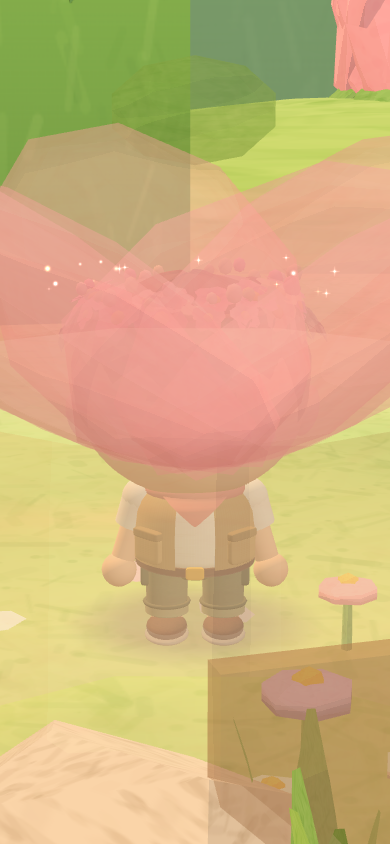
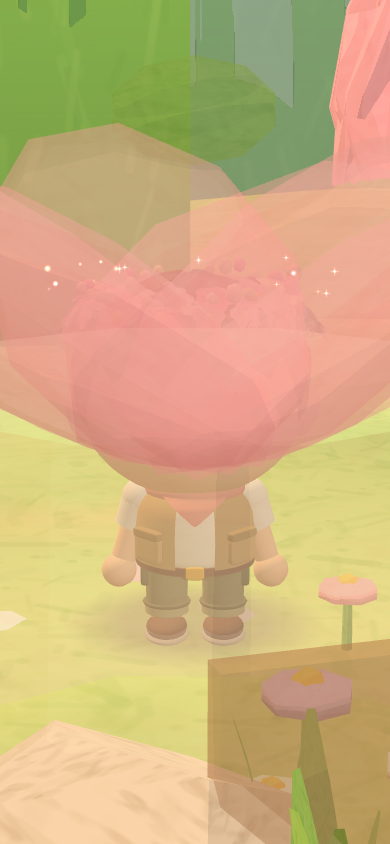
둥근 땅(그릴 때만 멀수록 아래로 휘기), 톱니 메뉴 세기, 자동 시험 한 번에 돌리는 도구
- game/bend.js: three 셰이더 조각(project_vertex·worldpos_vertex·스프라이트)을 한 번 고쳐 모든 재질·합친 덩어리·인스턴싱·뼈대·그림자 깊이가 같은 만큼 휨, uniform wlBend 하나(Material.onBeforeCompile에 끼워 넣음, 프로그램 열쇠는 원래 함수 글로). 세기 0이면 예전 계산 그대로(기준 촬영 바이트 동일)
- 요정의 숲 bend {k:.006, d0:8}, 톱니 메뉴 둥근 땅 끔·약·중·강(기억), 구역에 값이 없으면 끔
- 별가루 셰이더도 휨, 하늘·별은 noBend, 소개 카드 초상은 끄고 찍기, 선착장 물 평면을 48×13칸으로(네 귀퉁이뿐이라 가라앉던 것)
- tools/run-checks.py(기준·동작·규칙·휴대폰·가림·끼임·카메라 걷기), shot-server --lan(아이폰용)
- CLAUDE.md 둥근 땅 규칙

diff --git a/index.html b/index.html
@@ -102,68 +102,70 @@ body.debug #dbgBtn{opacity:1;background:var(--chipline)}
   <button id="actBtn" type="button">동작: 서기</button>
   <button id="emphBtn" type="button">캐릭터 강조: 자동</button>
   <button id="outfitBtn" type="button">옷: 평상복</button>
+  <button id="bendBtn" type="button">둥근 땅: 중</button>
   <button id="resetBtn" type="button">진행 초기화</button>
   <div class="hint" id="stats" aria-live="polite"></div>
   <div class="hint">끌어서 돌려 보고, 휠이나 두 손가락으로 확대해요. 바닥을 누르면 원더룹이 걸어가고, 원더룹을 누르면 인사해요. 버섯 랜턴은 눌러서 켜고 꺼요.</div>
 </div>
 
 <script id="wl-vercheck">fetch('version.json?t='+Date.now(),{cache:'no-store'}).then(r=>r.json()).then(j=>{if(j.v&&j.v!==window.WL_V){const u=new URL(location.href);if(u.searchParams.get('_v')!==j.v){u.searchParams.set('_v',j.v);location.replace(u);}}}).catch(()=>{});</script>
-<script>window.WL_V='f9cd527d55';</script>
+<script>window.WL_V='cec8ff5d3c';</script>
 <script type="importmap">
 {
   "imports": {
     "three": "https://cdn.jsdelivr.net/npm/three@0.186.1/build/three.module.js",
     "three/addons/": "https://cdn.jsdelivr.net/npm/three@0.186.1/examples/jsm/",
-    "./js/01-textures.js": "./js/01-textures.js?v=f9cd527d55",
-    "./js/02-zone.js": "./js/02-zone.js?v=f9cd527d55",
-    "./js/03-scene.js": "./js/03-scene.js?v=f9cd527d55",
-    "./js/04-character.js": "./js/04-character.js?v=f9cd527d55",
-    "./js/05-hair-headwear.js": "./js/05-hair-headwear.js?v=f9cd527d55",
-    "./js/06-outfits.js": "./js/06-outfits.js?v=f9cd527d55",
-    "./js/07-actions.js": "./js/07-actions.js?v=f9cd527d55",
-    "./js/08-main.js": "./js/08-main.js?v=f9cd527d55",
-    "./js/09-capture.js": "./js/09-capture.js?v=f9cd527d55",
-    "./js/game/codex.js": "./js/game/codex.js?v=f9cd527d55",
-    "./js/game/companion.js": "./js/game/companion.js?v=f9cd527d55",
-    "./js/game/controls.js": "./js/game/controls.js?v=f9cd527d55",
-    "./js/game/core.js": "./js/game/core.js?v=f9cd527d55",
-    "./js/game/course.js": "./js/game/course.js?v=f9cd527d55",
-    "./js/game/dialog.js": "./js/game/dialog.js?v=f9cd527d55",
-    "./js/game/events.js": "./js/game/events.js?v=f9cd527d55",
-    "./js/game/fx.js": "./js/game/fx.js?v=f9cd527d55",
-    "./js/game/hud.js": "./js/game/hud.js?v=f9cd527d55",
-    "./js/game/index.js": "./js/game/index.js?v=f9cd527d55",
-    "./js/game/interact.js": "./js/game/interact.js?v=f9cd527d55",
-    "./js/game/items.js": "./js/game/items.js?v=f9cd527d55",
-    "./js/game/lamps.js": "./js/game/lamps.js?v=f9cd527d55",
-    "./js/game/music.js": "./js/game/music.js?v=f9cd527d55",
-    "./js/game/occlude.js": "./js/game/occlude.js?v=f9cd527d55",
-    "./js/game/profile.js": "./js/game/profile.js?v=f9cd527d55",
-    "./js/game/ride.js": "./js/game/ride.js?v=f9cd527d55",
-    "./js/game/sfx-ant.js": "./js/game/sfx-ant.js?v=f9cd527d55",
-    "./js/game/sky.js": "./js/game/sky.js?v=f9cd527d55",
-    "./js/game/sound.js": "./js/game/sound.js?v=f9cd527d55",
-    "./js/game/state.js": "./js/game/state.js?v=f9cd527d55",
-    "./js/game/synth.js": "./js/game/synth.js?v=f9cd527d55",
-    "./js/game/title.js": "./js/game/title.js?v=f9cd527d55",
-    "./js/game/ui.js": "./js/game/ui.js?v=f9cd527d55",
-    "./js/hoods/bud.js": "./js/hoods/bud.js?v=f9cd527d55",
-    "./js/hoods/crown.js": "./js/hoods/crown.js?v=f9cd527d55",
-    "./js/zones/basecamp.js": "./js/zones/basecamp.js?v=f9cd527d55",
-    "./js/zones/fairy/dock.js": "./js/zones/fairy/dock.js?v=f9cd527d55",
-    "./js/zones/fairy/fairies.js": "./js/zones/fairy/fairies.js?v=f9cd527d55",
-    "./js/zones/fairy/forest.js": "./js/zones/fairy/forest.js?v=f9cd527d55",
-    "./js/zones/fairy/music.js": "./js/zones/fairy/music.js?v=f9cd527d55",
-    "./js/zones/fairy/paint.js": "./js/zones/fairy/paint.js?v=f9cd527d55",
-    "./js/zones/fairy/world.js": "./js/zones/fairy/world.js?v=f9cd527d55",
-    "./js/zones/sample-fx.js": "./js/zones/sample-fx.js?v=f9cd527d55",
-    "./js/zones/sample-indoor.js": "./js/zones/sample-indoor.js?v=f9cd527d55",
-    "./js/zones/sample-outdoor.js": "./js/zones/sample-outdoor.js?v=f9cd527d55"
+    "./js/01-textures.js": "./js/01-textures.js?v=cec8ff5d3c",
+    "./js/02-zone.js": "./js/02-zone.js?v=cec8ff5d3c",
+    "./js/03-scene.js": "./js/03-scene.js?v=cec8ff5d3c",
+    "./js/04-character.js": "./js/04-character.js?v=cec8ff5d3c",
+    "./js/05-hair-headwear.js": "./js/05-hair-headwear.js?v=cec8ff5d3c",
+    "./js/06-outfits.js": "./js/06-outfits.js?v=cec8ff5d3c",
+    "./js/07-actions.js": "./js/07-actions.js?v=cec8ff5d3c",
+    "./js/08-main.js": "./js/08-main.js?v=cec8ff5d3c",
+    "./js/09-capture.js": "./js/09-capture.js?v=cec8ff5d3c",
+    "./js/game/bend.js": "./js/game/bend.js?v=cec8ff5d3c",
+    "./js/game/codex.js": "./js/game/codex.js?v=cec8ff5d3c",
+    "./js/game/companion.js": "./js/game/companion.js?v=cec8ff5d3c",
+    "./js/game/controls.js": "./js/game/controls.js?v=cec8ff5d3c",
+    "./js/game/core.js": "./js/game/core.js?v=cec8ff5d3c",
+    "./js/game/course.js": "./js/game/course.js?v=cec8ff5d3c",
+    "./js/game/dialog.js": "./js/game/dialog.js?v=cec8ff5d3c",
+    "./js/game/events.js": "./js/game/events.js?v=cec8ff5d3c",
+    "./js/game/fx.js": "./js/game/fx.js?v=cec8ff5d3c",
+    "./js/game/hud.js": "./js/game/hud.js?v=cec8ff5d3c",
+    "./js/game/index.js": "./js/game/index.js?v=cec8ff5d3c",
+    "./js/game/interact.js": "./js/game/interact.js?v=cec8ff5d3c",
+    "./js/game/items.js": "./js/game/items.js?v=cec8ff5d3c",
+    "./js/game/lamps.js": "./js/game/lamps.js?v=cec8ff5d3c",
+    "./js/game/music.js": "./js/game/music.js?v=cec8ff5d3c",
+    "./js/game/occlude.js": "./js/game/occlude.js?v=cec8ff5d3c",
+    "./js/game/profile.js": "./js/game/profile.js?v=cec8ff5d3c",
+    "./js/game/ride.js": "./js/game/ride.js?v=cec8ff5d3c",
+    "./js/game/sfx-ant.js": "./js/game/sfx-ant.js?v=cec8ff5d3c",
+    "./js/game/sky.js": "./js/game/sky.js?v=cec8ff5d3c",
+    "./js/game/sound.js": "./js/game/sound.js?v=cec8ff5d3c",
+    "./js/game/state.js": "./js/game/state.js?v=cec8ff5d3c",
+    "./js/game/synth.js": "./js/game/synth.js?v=cec8ff5d3c",
+    "./js/game/title.js": "./js/game/title.js?v=cec8ff5d3c",
+    "./js/game/ui.js": "./js/game/ui.js?v=cec8ff5d3c",
+    "./js/hoods/bud.js": "./js/hoods/bud.js?v=cec8ff5d3c",
+    "./js/hoods/crown.js": "./js/hoods/crown.js?v=cec8ff5d3c",
+    "./js/zones/basecamp.js": "./js/zones/basecamp.js?v=cec8ff5d3c",
+    "./js/zones/fairy/dock.js": "./js/zones/fairy/dock.js?v=cec8ff5d3c",
+    "./js/zones/fairy/fairies.js": "./js/zones/fairy/fairies.js?v=cec8ff5d3c",
+    "./js/zones/fairy/forest.js": "./js/zones/fairy/forest.js?v=cec8ff5d3c",
+    "./js/zones/fairy/music.js": "./js/zones/fairy/music.js?v=cec8ff5d3c",
+    "./js/zones/fairy/paint.js": "./js/zones/fairy/paint.js?v=cec8ff5d3c",
+    "./js/zones/fairy/world.js": "./js/zones/fairy/world.js?v=cec8ff5d3c",
+    "./js/zones/sample-fx.js": "./js/zones/sample-fx.js?v=cec8ff5d3c",
+    "./js/zones/sample-indoor.js": "./js/zones/sample-indoor.js?v=cec8ff5d3c",
+    "./js/zones/sample-outdoor.js": "./js/zones/sample-outdoor.js?v=cec8ff5d3c"
   }
 }
 </script>
 <!-- 08-main.js가 01~07을 번호 순서대로 import한다. 버전(?v=)과 위 importmap의 js 줄은 tools/stamp.py가 쓴다 -->
-<script type="module" src="js/08-main.js?v=f9cd527d55"></script>
+<script type="module" src="js/08-main.js?v=cec8ff5d3c"></script>
 
 </body>
 </html>

diff --git a/js/game/bend.js b/js/game/bend.js
@@ -1,0 +1,52 @@
+/* 원더룹 — 둥근 땅 (동물의 숲처럼, 2026-11-03)
+   그릴 때만 카메라에서 수평으로 멀수록 아래로 내린다: 아래로 = k × max(0, 거리 − d0)²  (거리는 카메라 기준 x·z).
+   평평한 땅이 둥근 섬처럼 넘어가 보이고, 먼 곳은 지평선 아래로 숨는다. 실제 위치·충돌·이동·판정·카메라 당김은 평평한 그대로(그림만 바뀜).
+   어떻게: three 셰이더 조각을 한 번 고친다 — project_vertex(화면 위치)·worldpos_vertex(그림자 좌표·빛)·스프라이트 꼭짓점.
+     → 기본 재질(Standard·Toon·Basic·Lambert·Points·Sprite), 합친 덩어리, 인스턴싱, 뼈대(Skinned), 그림자 깊이 그리기까지 모두 같은 만큼 휜다.
+     uniform wlBend(vec4: x = k, y·z = 카메라 x·z, w = d0) 하나를 모든 재질이 같이 쓴다(Material.onBeforeCompile에 끼워 넣음 — 구역 코드가 재질에 붙이는 onBeforeCompile은 그대로 불린다).
+     k가 0이면 셰이더가 예전 계산을 그대로 탄다(베이스캠프·실내·기준 촬영 화면 그대로).
+   직접 쓴 셰이더(ShaderMaterial)는 #include <common> 뒤 정점 위치에 wlBent(modelMatrix*…)를 써야 한다(crown.js 별가루 견본). 휘면 안 되는 것(하늘 지붕·별)은 material.userData.noBend=true.
+   매 프레임 자바스크립트 일은 08이 setBend(카메라 x·z)로 uniform 값 셋만 바꾸는 것뿐. 세기는 구역 정보 bend:{k,d0}(없으면 끔) × 톱니 메뉴 단계(끔·약·중·강). */
+import * as THREE from 'three';
+const BEND = { value: new THREE.Vector4(0, 0, 0, 8) }, NONE = { value: new THREE.Vector4(0, 0, 0, 8) };
+const C = THREE.ShaderChunk;
+if (!C.common.includes('wlBend')) {
+  C.common += `
+uniform vec4 wlBend; // 둥근 땅(game/bend.js): x 세기 k, yz 카메라 x·z, w 평평하게 둘 거리 d0
+vec4 wlBent( vec4 w ) { vec2 d = w.xz - wlBend.yz; float r = max( 0.0, length( d ) - wlBend.w ); w.y -= wlBend.x * r * r; return w; }`;
+  const pv = 'mvPosition = modelViewMatrix * mvPosition;';
+  if (!C.project_vertex.includes(pv)) console.warn('원더룹: 둥근 땅 패치 실패(project_vertex)');
+  C.project_vertex = C.project_vertex.replace(pv, 'if ( wlBend.x > 0.0 ) mvPosition = viewMatrix * wlBent( modelMatrix * mvPosition ); else mvPosition = modelViewMatrix * mvPosition;');
+  const wp = 'worldPosition = modelMatrix * worldPosition;';
+  if (!C.worldpos_vertex.includes(wp)) console.warn('원더룹: 둥근 땅 패치 실패(worldpos_vertex)');
+  C.worldpos_vertex = C.worldpos_vertex.replace(wp, wp + '\n\tif ( wlBend.x > 0.0 ) worldPosition = wlBent( worldPosition );');
+  const sp = 'vec4 mvPosition = modelViewMatrix[ 3 ];', S = THREE.ShaderLib.sprite;
+  if (!S.vertexShader.includes(sp)) console.warn('원더룹: 둥근 땅 패치 실패(sprite)');
+  S.vertexShader = S.vertexShader.replace(sp, 'vec4 mvPosition = wlBend.x > 0.0 ? viewMatrix * wlBent( modelMatrix[ 3 ] ) : modelViewMatrix[ 3 ];');
+}
+// 모든 재질에 uniform 끼워 넣기: onBeforeCompile을 바꿔 단 재질도 그 함수 뒤에 wlBend가 붙는다
+{ const P = THREE.Material.prototype, add = (m, sh) => { sh.uniforms.wlBend = m.userData && m.userData.noBend ? NONE : BEND; };
+  if (!Object.getOwnPropertyDescriptor(P, 'onBeforeCompile') || !P.__wlBend) {
+    P.__wlBend = true;
+    Object.defineProperty(P, 'onBeforeCompile', { configurable: true,
+      get() { const m = this; return this.__wlObc || (this.__wlObc = function (sh, r) { add(m, sh); }); }, // this 대신 m(앞 함수를 this 없이 부르는 곳이 있다 — 07)
+      set(f) { const m = this; this.__wlUser = typeof f === 'function' ? f : null; this.__wlObc = this.__wlUser ? function (sh, r) { f.call(this, sh, r); add(m, sh); } : null; } });
+    // three의 기본 프로그램 열쇠는 onBeforeCompile.toString()이다 — 감싼 함수는 모두 같은 글이라, 원래 함수의 글로(다른 셰이더 패치끼리 프로그램을 같이 쓰지 않게)
+    const key0 = P.customProgramCacheKey;
+    P.customProgramCacheKey = function () { return this.__wlUser ? this.__wlUser.toString() : key0.call({ onBeforeCompile: () => {} }); };
+  } }
+/* 단계: 0 끔 · 1 약 · 2 중 · 3 강 — 구역 정보 bend:{k,d0}의 k가 '중', 약은 ×0.5, 강은 ×2 */
+const LEVELS = ['끔', '약', '중', '강'], MUL = [0, .5, 1, 2];
+let zoneBend = null, level = 2, paused = 0;
+try { const v = localStorage.getItem('wl-bend'); if (v != null && v !== '') level = Math.max(0, Math.min(3, +v)); } catch (e) {}
+function setZoneBend(b) { zoneBend = b && b.k > 0 ? { k: b.k, d0: b.d0 ?? 8 } : null; }
+function setLevel(l) { level = l; try { localStorage.setItem('wl-bend', String(l)); } catch (e) {} }
+const bendK = () => (zoneBend && !paused ? zoneBend.k * MUL[level] : 0);
+/* 08이 그리기 직전에(카메라가 움직인 뒤) */
+function setBend(cam) { const v = BEND.value; v.x = bendK(); v.y = cam.position.x; v.z = cam.position.z; v.w = zoneBend ? zoneBend.d0 : 8; }
+/* 잠깐 끄기(소개 카드 초상 찍기 등): const resume = bendPaused(); … resume(); */
+function bendPaused() { paused++; const x = BEND.value.x; BEND.value.x = 0; return () => { paused--; BEND.value.x = paused ? 0 : x; }; }
+/* 그림 위치 계산(자바스크립트 쪽 — 화면 위 안내를 3D 자리에 맞출 때): 평평한 자리 p를 휜 자리로 */
+function bentY(x, z, y) { const v = BEND.value; if (!(v.x > 0)) return y; const r = Math.max(0, Math.hypot(x - v.y, z - v.z) - v.w); return y - v.x * r * r; }
+const bendInfo = () => ({ on: !!zoneBend, level, label: LEVELS[level], k: bendK(), d0: zoneBend ? zoneBend.d0 : null });
+export { BEND, LEVELS, bendInfo, bendK, bendPaused, bentY, setBend, setLevel, setZoneBend };

diff --git a/js/08-main.js b/js/08-main.js
@@ -8,6 +8,7 @@ import './05-hair-headwear.js';
 import './06-outfits.js';
 import {hopWL,setWalkTarget,stopWalk,updateWL,walking,wlHit} from './07-actions.js';
 import * as GAME from './game/index.js';
+import {bendInfo,setBend,setLevel,setZoneBend} from './game/bend.js';
 /* ---------- 상호작용 ---------- */
 let cave=0,caveTarget=0,lightState=0,emph='auto',night=0,nightTarget=0,spin=false,spinDir=1;
 const dayBtn=document.getElementById('dayBtn'),spinBtn=document.getElementById('spinBtn');
@@ -59,7 +60,8 @@ async function goZone(id,spawn){
   return true;}
 /* 세계의 옷·탈: 상상의 세계(구역 정보에 hood가 있는 곳)에 들어가면 탐험복 그대로 탈만 그 세계 것으로 바꿔 쓴다.
    outfit을 적으면 그 옷(예: 'casual'), 안 적으면 탐험복. hood가 없는 구역(베이스캠프 등)은 지금 차림 그대로 */
-function zoneLook(z){const U=WL.userData;{const h=document.querySelector('header');if(h)h.style.display=z.world?'none':'';} // 세계 구역에서는 베이스캠프 머리말(실험 안내 글자)을 숨긴다
+function zoneLook(z){const U=WL.userData;setZoneBend(z.bend);bendBtn(); // 둥근 땅 세기는 구역 정보 bend(없으면 끔 — 실내·베이스캠프)
+  {const h=document.querySelector('header');if(h)h.style.display=z.world?'none':'';} // 세계 구역에서는 베이스캠프 머리말(실험 안내 글자)을 숨긴다
   if(z.hood){U.setOutfit(z.outfit||'explorer');U.setHood(z.hood);}else if(z.outfit)U.setOutfit(z.outfit);}
 zoneLook(zone.cur); // 처음 구역 (?zone=…로 바로 들어와도)
 {const sp=zone.cur.spawn;WL.position.set(sp.x,groundY(sp.x,sp.z),sp.z);WL.rotation.y=sp.ry||0;} // 처음 구역의 들어오는 자리 (베이스캠프는 04의 처음 자리와 같다)
@@ -74,6 +76,9 @@ const reduce=window.matchMedia&&window.matchMedia('(prefers-reduced-motion: redu
  set(new URLSearchParams(location.search).has('debug'));
  b.addEventListener('click',()=>{const vv=window.visualViewport;if(performance.now()-(GAME.controls.input.multiT||0)<800||(vv&&vv.scale>1.01))return; // 두 손가락 동작 끝에 잘못 눌린 것은 무시(저절로 열리지 않게)
    set(!document.body.classList.contains('debug'));});}
+/* 둥근 땅(시험용, 톱니 메뉴): 끔 → 약 → 중 → 강 → 끔 (game/bend — 그림만 휜다, 이 기기에 기억). 구역 정보 bend가 없는 곳(실내·베이스캠프)은 늘 끔 */
+function bendBtn(){const b=document.getElementById('bendBtn');if(!b)return;const I=bendInfo();b.textContent=I.on?`둥근 땅: ${I.label}`:'둥근 땅: 이 구역 없음';b.disabled=!I.on;}
+{const b=document.getElementById('bendBtn');if(b)b.addEventListener('click',()=>{const I=bendInfo();if(!I.on)return;setLevel((I.level+1)%4);bendBtn();});}
 /* 진행 초기화(시험용, 톱니 메뉴): 저장된 진행(flags — 우산·완료·소개 카드)·도감을 지우고 다시 연다. 실수로 눌리지 않게 3초 안에 한 번 더 눌러야 */
 {const b=document.getElementById('resetBtn');let armT=0;if(b)b.addEventListener('click',()=>{const now=performance.now();
    if(now-armT<3000){GAME.state.resetProgress();location.reload();return;}armT=now;b.textContent='한 번 더 누르면 처음부터';setTimeout(()=>{if(performance.now()-armT>=2900)b.textContent='진행 초기화';},3000);});}
@@ -115,7 +120,8 @@ if(!SHOT){const setPaused=p=>{if(p===paused)return;paused=p;if(!p)schedule();};
   window.addEventListener('blur',()=>setPaused(true));['focus','pointerdown','keydown'].forEach(ev=>window.addEventListener(ev,()=>setPaused(document.hidden)));}
 /* 한 화면 그리기: 보통 그리기 + 흐려 보기 덧그리기(game/occlude — 세계 구역에서 원더룹을 가리는 조각만). 화면 통계는 둘을 합친 값 */
 renderer.info.autoReset=false;
-function renderFrame(){renderer.info.reset();renderer.render(scene,camera);GAME.occlude.overlayPass(renderer,scene,camera);}
+/* 둥근 땅(game/bend): 그리기 직전 카메라 자리를 넣는다(그림자 그리기도 같은 값) */
+function renderFrame(){setBend(camera);renderer.info.reset();renderer.render(scene,camera);GAME.occlude.overlayPass(renderer,scene,camera);}
 function tick(){let ok=false;try{tickBody();ok=true;}catch(e){const k=String(e&&e.stack||e);if(!tickErrSeen.has(k)){tickErrSeen.add(k);console.error('원더룹: 프레임 오류 (계속 진행)',e);}
   try{renderFrame();}catch(e2){}}if(!ok)nextFrame();}
 function tickBody(){

diff --git a/js/game/profile.js b/js/game/profile.js
@@ -11,6 +11,7 @@ import * as THREE from 'three';
 import {flags,setFlag} from './state.js';
 import {profileCard} from './ui.js';
 import {cutPaused} from './occlude.js';
+import {bendPaused} from './bend.js';
 let ctx=null,W='',CARDS={};
 function initProfile(c){ctx=c;}
 function setup({world,cards}){W=world||'';CARDS=cards||{};}
@@ -27,12 +28,13 @@ function portrait(root,{side=.42,lift=.12,w=512,h=512}={}){if(!ctx||!ctx.rendere
   stage.add(new THREE.HemisphereLight(0xfff6ea,0xd9c2aa,1.6));const key=new THREE.DirectionalLight(0xfff2e0,2.3);key.position.copy(cam.position).add(new THREE.Vector3(-dist*.4,dist*.5,0));key.target.position.copy(c);stage.add(key,key.target);
   const rt=new THREE.WebGLRenderTarget(w,h,{samples:4});rt.texture.colorSpace=THREE.SRGBColorSpace;
   const prev=renderer.getRenderTarget(),cc=renderer.getClearColor(new THREE.Color()),ca=renderer.getClearAlpha();let url=null;const resume=cutPaused(true);
+  const resumeBend=bendPaused(); // 초상은 둥근 땅을 끄고(평평하게) 찍는다
   try{renderer.setRenderTarget(rt);renderer.setClearColor(0x000000,0);renderer.clear();renderer.render(stage,cam);const px=new Uint8Array(w*h*4);renderer.readRenderTargetPixels(rt,0,0,w,h,px);
     const cv=document.createElement('canvas');cv.width=w;cv.height=h;const g=cv.getContext('2d'),im=g.createImageData(w,h);
     for(let r=0;r<h;r++)im.data.set(px.subarray((h-1-r)*w*4,(h-r)*w*4),r*w*4); // 렌더 타깃은 아래부터 → 뒤집기
     g.putImageData(im,0,0);url=cv.toDataURL('image/png');}
   catch(e){console.warn('원더룹: 소개 카드 초상 렌더링 실패',e);}
-  finally{renderer.setRenderTarget(prev);renderer.setClearColor(cc,ca);resume();hid.forEach(o=>o.visible=true);op.forEach(([mt,o,d,t])=>{mt.opacity=o;mt.depthWrite=d;if(mt.transparent!==t){mt.transparent=t;mt.needsUpdate=true;}});rt.dispose();
+  finally{renderer.setRenderTarget(prev);renderer.setClearColor(cc,ca);resume();resumeBend();hid.forEach(o=>o.visible=true);op.forEach(([mt,o,d,t])=>{mt.opacity=o;mt.depthWrite=d;if(mt.transparent!==t){mt.transparent=t;mt.needsUpdate=true;}});rt.dispose();
     if(par)par.add(root);else stage.remove(root);root.position.copy(pos);root.quaternion.copy(quat);root.scale.copy(scl);root.updateMatrixWorld(true);}
   return url;}
 function meet(id,root){const c=CARDS[id];if(!c||seen(id))return Promise.resolve(false);setFlag('meet:'+W+':'+id,true);

diff --git a/js/02-zone.js b/js/02-zone.js
@@ -19,7 +19,7 @@
      hood: 'ant'                         들어올 때 쓰는 탈(06 탈 목록의 key) — 세계마다 탈 하나. hood가 있으면 옷은 탐험복(08 zoneLook)
      platforms: [{r:[x0,x1,z0,z1]|c:[x,z,반지름], top}]   높은 발판(버섯 갓·가지 등): 위에 서고, 아래에서 걸어 들어가면 막힘(STEP보다 높으면)
      bouncers: [{c:[x,z,반지름], top, height, to:[x,z]}]   튀는 발판(버섯 갓): 밟기만 하면 top+height 높이로 튀어 to에 내려앉음(to 없으면 제자리)
-     bounce(b)  튀는 발판이 튀길 때 구역이 부르는 함수(갓 출렁임·소리)   glide: true 늘 활공·false 활공 안 함·없으면 활공 아이템(민들레 솜털 우산, game/items canGlide)을 가졌을 때(07, 펼치는 물건은 06 setGlideProp)
+     bounce(b)  튀는 발판이 튀길 때 구역이 부르는 함수(갓 출렁임·소리)   bend: {k,d0} 둥근 땅 세기(game/bend — 없으면 끔, 실내·베이스캠프는 넣지 않는다)   glide: true 늘 활공·false 활공 안 함·없으면 활공 아이템(민들레 솜털 우산, game/items canGlide)을 가졌을 때(07, 펼치는 물건은 06 setGlideProp)
      발판은 매 프레임 그 값을 읽는다 → p.top·c[2]를 바꾸면 자라는 발판(버섯 계단 등). 서 있는 발판이 천천히 자라면 원더룹도 함께 올라간다(한 프레임에 STEP보다 크게 바꾸지 않기)
      winds: [{c|r, dir:[x,z], strength, up, y:[아래,위], on}]   바람 구역: 공중·활공 중에만 dir 쪽으로 밀어 준다(초당 strength), up이 있으면 활공 중 위로 띄움(바람길).
                                          구역 코드가 dir·on을 바꾸면 바람 방향이 바뀐다(장난꾸러기 바람). 걷는 동안에는 밀지 않는다

diff --git a/js/hoods/crown.js b/js/hoods/crown.js
@@ -122,8 +122,9 @@ function makeDust(){const N=QUALITY.tier==='mobile'?72:150,geo=new THREE.BufferG
   const pos=new Float32Array(N*3),col=new Float32Array(N*3),sz=new Float32Array(N),al=new Float32Array(N),sh=new Float32Array(N);
   for(const [k,a,n] of [['position',pos,3],['color',col,3],['aSize',sz,1],['aAlpha',al,1],['aShape',sh,1]])geo.setAttribute(k,new THREE.BufferAttribute(a,n).setUsage(THREE.DynamicDrawUsage));
   const mat=new THREE.ShaderMaterial({transparent:true,depthWrite:false,blending:THREE.AdditiveBlending,uniforms:{uScale:{value:500},uBright:{value:1}},vertexColors:true,
-    vertexShader:`attribute float aSize;attribute float aAlpha;attribute float aShape;uniform float uScale;varying vec3 vC;varying float vA;varying float vS;
-      void main(){vC=color;vA=aAlpha;vS=aShape;vec4 mv=modelViewMatrix*vec4(position,1.);gl_PointSize=max(1.5,aSize*uScale/-mv.z);gl_Position=projectionMatrix*mv;}`,
+    vertexShader:`#include <common>
+      attribute float aSize;attribute float aAlpha;attribute float aShape;uniform float uScale;varying vec3 vC;varying float vA;varying float vS;
+      void main(){vC=color;vA=aAlpha;vS=aShape;vec4 mv=wlBend.x>0.?viewMatrix*wlBent(modelMatrix*vec4(position,1.)):modelViewMatrix*vec4(position,1.); /* 둥근 땅(game/bend)도 같은 만큼 */gl_PointSize=max(1.5,aSize*uScale/-mv.z);gl_Position=projectionMatrix*mv;}`,
     fragmentShader:`uniform float uBright;varying vec3 vC;varying float vA;varying float vS;
       void main(){vec2 p=gl_PointCoord*2.-1.;float r=length(p),a;
         if(vS>.5){vec2 q=abs(p);a=(1.-q.y)*exp(-q.x*13.)+(1.-q.x)*exp(-q.y*13.);a=a*.85+exp(-r*r*22.)*1.1;a*=1.-smoothstep(.75,1.,r);} // 네 갈래 반짝이 ✦

diff --git a/js/game/sky.js b/js/game/sky.js
@@ -31,8 +31,9 @@ function sky({parent,keys=[],t=0,radius=100,nStars=260,seed=7}={}){
   const dot=(()=>{const cv=document.createElement('canvas');cv.width=cv.height=32;const g=cv.getContext('2d'),gr=g.createRadialGradient(16,16,0,16,16,16);
     gr.addColorStop(0,'rgba(255,255,255,1)');gr.addColorStop(.35,'rgba(255,250,230,.8)');gr.addColorStop(1,'rgba(255,250,230,0)');g.fillStyle=gr;g.fillRect(0,0,32,32);const tx=new THREE.CanvasTexture(cv);tx.colorSpace=THREE.SRGBColorSpace;return tx;})();
   const smat=new THREE.PointsMaterial({map:dot,size:3,sizeAttenuation:false,transparent:true,opacity:0,depthWrite:false,fog:false,color:0xfff6dc});
+  smat.userData.noBend=true; // 하늘·별은 둥근 땅에서 휘지 않는다(game/bend — 카메라를 따라다니는 먼 하늘)
   const stars=new THREE.Points(sg,smat);stars.renderOrder=-9;stars.frustumCulled=false;
-  const fmat=new THREE.PointsMaterial({map:dot,size:9,sizeAttenuation:false,transparent:true,opacity:0,depthWrite:false,fog:false,color:0xfff2c8});
+  const fmat=new THREE.PointsMaterial({map:dot,size:9,sizeAttenuation:false,transparent:true,opacity:0,depthWrite:false,fog:false,color:0xfff2c8});fmat.userData.noBend=true;
   const first=new THREE.Points(new THREE.BufferGeometry().setAttribute('position',new THREE.BufferAttribute(new Float32Array([radius*.35,radius*.55,-radius*.6]),3)),fmat);
   first.renderOrder=-9;first.frustumCulled=false;
   const g=new THREE.Group();g.name='sky';g.add(dome,stars,first);(parent||null)&&parent.add(g);

diff --git a/js/zones/fairy/dock.js b/js/zones/fairy/dock.js
@@ -62,7 +62,8 @@ const inWater=(x,z)=>Math.min(z-zN(x),zS(x)-z)+(fbm(x*.9+11,z*.9+3)-.5)*.7; // +
  [[0,10.6],[.2,8.7],[.8,6.9],[1.6,5.1],[2.6,3.4],[3.5,1.7],[4.2,.1]].forEach(([x,z],i)=>flat.push(add(new THREE.CylinderGeometry(.42+(i%2)*.08,.46,.07,9),T(['#e8ddd0','#ddd2c4','#efe6da'][i%3],'stone'),x,.03,z,{ry:i,line:false,cast:false})));}
 // 물: 연한 파스텔 청록 + 잔물결(천천히 흐름). 시간마다 색이 바뀐다(WATER)
 const waterMat=toon(WATER[0].c,{map:TX.ripple,emissive:WATER[0].e,ei:WATER[0].ei});
-const water=new THREE.Mesh(new THREE.PlaneGeometry(SIZE,13,1,1).rotateX(-PI/2),waterMat);water.position.set(0,-.1,-5.2);water.receiveShadow=true;root.add(water);keep.push(water);flat.push(water);
+// 물은 1m 칸으로 나눈다 — 둥근 땅(game/bend)은 꼭짓점마다 휘어서, 네 귀퉁이뿐이면 물이 둑 밑으로 가라앉는다
+const water=new THREE.Mesh(new THREE.PlaneGeometry(SIZE,13,48,13).rotateX(-PI/2),waterMat);water.position.set(0,-.1,-5.2);water.receiveShadow=true;root.add(water);keep.push(water);flat.push(water);
 const WC=WATER.map(w=>({c:new THREE.Color(w.c),e:new THREE.Color(w.e),ei:w.ei}));
 // 물에는 못 들어감(선착장만): 0.5m 폭 띠마다 그 사이 물길을 막는다
 for(let x=-SIZE/2;x<SIZE/2;x+=.5){const xs=[x,x+.25,x+.5],n=Math.min(...xs.map(zN))+.05,s=Math.max(...xs.map(zS))-.12;

diff --git a/js/zones/fairy/forest.js b/js/zones/fairy/forest.js
@@ -7,7 +7,9 @@
    · 머리 위: 큰 잎 실루엣 판(높이 15~21m)을 겹쳐 하늘을 거의 덮고, 틈으로만 하늘빛이 보인다.
    · 빛줄기: 겹 사이로 내려오는 희미한 빛 다섯 줄기(십자 판 한 묶음, 더하기 섞기). 낮 따뜻한 빛 · 해 질 녘 복숭아빛 · 밤 푸른 달빛으로 약하게(SK.t).
    · gaps: 비워 둘 방향(라디안, 중심에서 본 각) — 별꽃 전망대 꽃봉오리가 보이는 북쪽 틈. 가까운 두 겹만 비운다.
-   그리기: 겹마다 1회 + 머리 위 1회 + 빛줄기 1회 = 6회(휴대폰은 두 겹씩 묶어 4회). 그림자를 드리우지 않는다. 휴대폰 단계도 같은 모습(텍스처만 조금 작게). */
+   그리기: 겹마다 1회 + 머리 위 1회 + 빛줄기 1회 = 6회(휴대폰은 두 겹씩 묶어 4회). 그림자를 드리우지 않는다. 휴대폰 단계도 같은 모습(텍스처만 조금 작게).
+   둥근 땅(game/bend)을 켜도 네 겹 모두 그린다 — 먼 두 겹은 19·23m로 키가 커서 3~9m 내려가도 지평선 아래로 숨지 않고, 빼면 휴대폰 세로 화면 위쪽에
+   벽 풀잎 사이로 흰 하늘 줄이 보였다(2026-11-03 비교 촬영). */
 import * as THREE from 'three';
 import {mergeGeometries} from 'three/addons/utils/BufferGeometryUtils.js';
 import {QUALITY,rng} from '../../01-textures.js';

diff --git a/js/zones/fairy/world.js b/js/zones/fairy/world.js
@@ -6,7 +6,8 @@
 import * as G from '../../game/index.js';
 import {FAIRY_MUSIC} from './music.js';
 G.sound.synth(FAIRY_MUSIC);
-export const FAIRY_WORLD={world:'fairy-forest',outfit:'explorer',hood:'crown',start:{compass:true}}; // 2026-11-02 꽃봉오리 탈 대신 봉오리 화관 → 클라이맥스에 핀 화관(crownBloom)
+export const FAIRY_WORLD={world:'fairy-forest',outfit:'explorer',hood:'crown',start:{compass:true},
+  bend:{k:.006,d0:8}}; // 둥근 땅(game/bend): 카메라에서 8m 밖부터 아래로 k×(거리−8)² — 톱니 메뉴 '중'이 이 값, 약 ×0.5·강 ×2 // 2026-11-02 꽃봉오리 탈 대신 봉오리 화관 → 클라이맥스에 핀 화관(crownBloom)
 export const icon=id=>`assets/icons/fairy/${id}.png?v=${window.WL_V||''}`;
 /* 소개 카드 전신 그림(2D, 투명 배경 webp — 2026-11-02 받은 그림의 정면 모습): 없는 주민은 img:null → 게임 안 전신 렌더링 */
 const card=id=>`assets/cards/fairy/${id}.webp?v=${window.WL_V||''}`;

diff --git a/js/01-textures.js b/js/01-textures.js
@@ -1,5 +1,6 @@
 /* 원더룹 베이스캠프 — 색연필 텍스처·재질·메쉬 헬퍼 */
 import * as THREE from 'three';
+import './game/bend.js'; // 둥근 땅: 셰이더 조각을 고치고 모든 재질에 uniform을 끼워 넣는다 — 재질이 하나라도 생기기 전에(그래서 맨 처음)
 const PI=Math.PI;
 /* ---------- 난수: 용도별 시드 ----------
    예전엔 시드 난수 R() 하나를 01~07이 차례로 꺼내 써서, 어디에 무언가를 더하면 그 뒤 텍스처·소품이 모두 바뀌었다.

diff --git a/tools/run-checks.py b/tools/run-checks.py
@@ -1,0 +1,75 @@
+# -*- coding: utf-8 -*-
+"""원더룹 자동 시험 한 번에 — 촬영 서버(python3 tools/shot-server.py)가 8000에 떠 있을 때, 저장소 루트에서
+   python3 tools/run-checks.py <이름> [--prev <앞 이름>] [--only base,rig,rules,phone,occlude,stuck,cam]
+ - base·rig: 기준 스크린샷(tools/baseline-shots.js)·동작(tools/rig-shots.js)을 docs/compare/<이름>-base·-rig에 찍고(헤드리스 크롬 소프트웨어 그리기 —
+   기준과 같은 방식), --prev가 있으면 docs/compare/<앞 이름>-base·-rig와 파일마다 바이트 비교
+ - rules: 규칙 시험(tools/game-tests.js, 견본 실내) · phone: 휴대폰 확인(tools/phone-check.js, 390×844, 요정의 숲 선착장)
+ - occlude: 가림 시험(tools/occlude-test.js, 컴퓨터·휴대폰 단계 → docs/occlude/pc·mobile) · stuck: 끼임 시험(tools/stuck-test.js, 선착장)
+ - cam: 카메라 걷기 시험(tools/cam-walk-test.js, 보통 주소·휴대폰 세로)
+ 결과는 화면에 요약하고 docs/compare/<이름>-checks.json에 모두 남긴다. 시험 브라우저는 소리를 끄고(--mute-audio) 끝나면 닫는다."""
+import json, os, sys, filecmp
+from playwright.sync_api import sync_playwright
+ROOT = os.path.abspath(os.path.join(os.path.dirname(__file__), '..'))
+U = 'http://localhost:8000/'
+args = sys.argv[1:]
+name = args[0] if args and not args[0].startswith('--') else 'now'
+prev = args[args.index('--prev') + 1] if '--prev' in args else None
+only = set(args[args.index('--only') + 1].split(',')) if '--only' in args else {'base', 'rig', 'rules', 'phone', 'occlude', 'stuck', 'cam'}
+OUT, R = {}, {}
+SOFT = ['--mute-audio', '--use-angle=swiftshader', '--enable-unsafe-swiftshader']
+GPU = ['--mute-audio', '--use-angle=metal', '--enable-gpu', '--ignore-gpu-blocklist']
+
+def page(b, url, vp=(1280, 800), mobile=False, dpr=1, shot=True):
+    ctx = b.new_context(viewport={'width': vp[0], 'height': vp[1]}, device_scale_factor=dpr, is_mobile=mobile, has_touch=mobile)
+    pg = ctx.new_page(); errs = []
+    pg.on('pageerror', lambda e: errs.append(str(e)[:300])); pg.on('console', lambda m: errs.append(m.text[:300]) if m.type == 'error' and '404' not in m.text else None)
+    pg.goto(url, wait_until='commit', timeout=120000)
+    pg.wait_for_function('window.wlShot' if shot else 'window.wlZone&&window.wlZone.cur', timeout=180000); pg.wait_for_timeout(1500)
+    pg.set_default_timeout(3600000); return ctx, pg, errs
+
+with sync_playwright() as p:
+    if only & {'base', 'rig'}:
+        b = p.chromium.launch(args=SOFT)
+        for kind, mod in [('base', 'baseline-shots'), ('rig', 'rig-shots')]:
+            if kind not in only: continue
+            ctx, pg, errs = page(b, U + '?shot')
+            pg.evaluate(f"(async()=>{{await (await import('/tools/{mod}.js')).run('compare/{name}-{kind}');return 1}})()")
+            d = {'errors': errs}
+            if prev:
+                A, B = os.path.join(ROOT, 'docs/compare', f'{prev}-{kind}'), os.path.join(ROOT, 'docs/compare', f'{name}-{kind}')
+                files = sorted(os.listdir(A)); diff = [f for f in files if not os.path.exists(os.path.join(B, f)) or not filecmp.cmp(os.path.join(A, f), os.path.join(B, f), shallow=False)]
+                d.update(files=len(files), diff=diff)
+            R[kind] = d; print(kind, '파일', d.get('files'), '다름', d.get('diff'), '오류', errs[:2], flush=True); ctx.close()
+        b.close()
+    b = p.chromium.launch(args=GPU)
+    if 'rules' in only:
+        ctx, pg, errs = page(b, U + '?shot&zonetest&zone=sample-indoor', (1280, 720))
+        r = pg.evaluate("(async()=>await (await import('/tools/game-tests.js')).run())()")
+        R['rules'] = {'pass': sum(1 for x in r if x['통과']), 'total': len(r), 'fail': [x for x in r if not x['통과']], 'errors': errs}
+        print('규칙', R['rules']['pass'], '/', R['rules']['total'], [x['규칙'] for x in R['rules']['fail']], flush=True); ctx.close()
+    if 'phone' in only:
+        res = {}
+        for q in ['', '&quality=mobile']:
+            ctx, pg, errs = page(b, U + '?shot&zone=fairy-dock' + q, (390, 844), True, 2)
+            r = pg.evaluate("(async()=>await (await import('/tools/phone-check.js')).run())()")
+            res[q or 'high'] = {'pass': sum(1 for x in r if x['결과'] == '통과'), 'warn': [x for x in r if x['결과'] == '주의'], 'fix': [x for x in r if x['결과'] == '고칠 것'], 'errors': errs}; ctx.close()
+        R['phone'] = res; print('휴대폰', {k: (v['pass'], len(v['warn']), len(v['fix'])) for k, v in res.items()}, flush=True)
+    if 'occlude' in only:
+        res = {}
+        for tag, q, vp, mob, dpr in [('pc', '', (1280, 800), False, 1), ('mobile', '&quality=mobile', (390, 844), True, 2)]:
+            ctx, pg, errs = page(b, U + '?shot&zone=fairy-dock' + q, vp, mob, dpr)
+            res[tag] = pg.evaluate(f"(async()=>await (await import('/tools/occlude-test.js')).run('occlude/{tag}'))()"); res[tag]['errors'] = errs; ctx.close()
+        R['occlude'] = res; print('가림', {k: (v['pass'], [(s['name'], s['ok']) for s in v['scenes']]) for k, v in res.items()}, flush=True)
+    if 'stuck' in only:
+        ctx, pg, errs = page(b, U + '?shot&zone=fairy-dock')
+        r = pg.evaluate("(async()=>{const r=await (await import('/tools/stuck-test.js')).run();delete r.그림;return r})()")
+        R['stuck'] = {'summary': r.get('요약'), 'errors': errs}; print('끼임', r.get('요약'), flush=True); ctx.close()
+    if 'cam' in only:
+        ctx, pg, errs = page(b, U + '?zone=fairy-dock&quality=mobile', (390, 844), True, 3, shot=False)
+        pg.wait_for_timeout(3000)
+        r = pg.evaluate("(async()=>{const r=await (await import('/tools/cam-walk-test.js')).run();delete r.그림;return r})()")
+        R['cam'] = {'paths': [{'이름': x['이름'], '바뀜': x['바뀜']} for x in r['길']], 'errors': errs}; print('카메라 걷기', R['cam']['paths'], flush=True); ctx.close()
+    b.close()
+os.makedirs(os.path.join(ROOT, 'docs/compare'), exist_ok=True)
+json.dump(R, open(os.path.join(ROOT, 'docs/compare', f'{name}-checks.json'), 'w'), ensure_ascii=False, indent=1)
+print('저장', f'docs/compare/{name}-checks.json')
